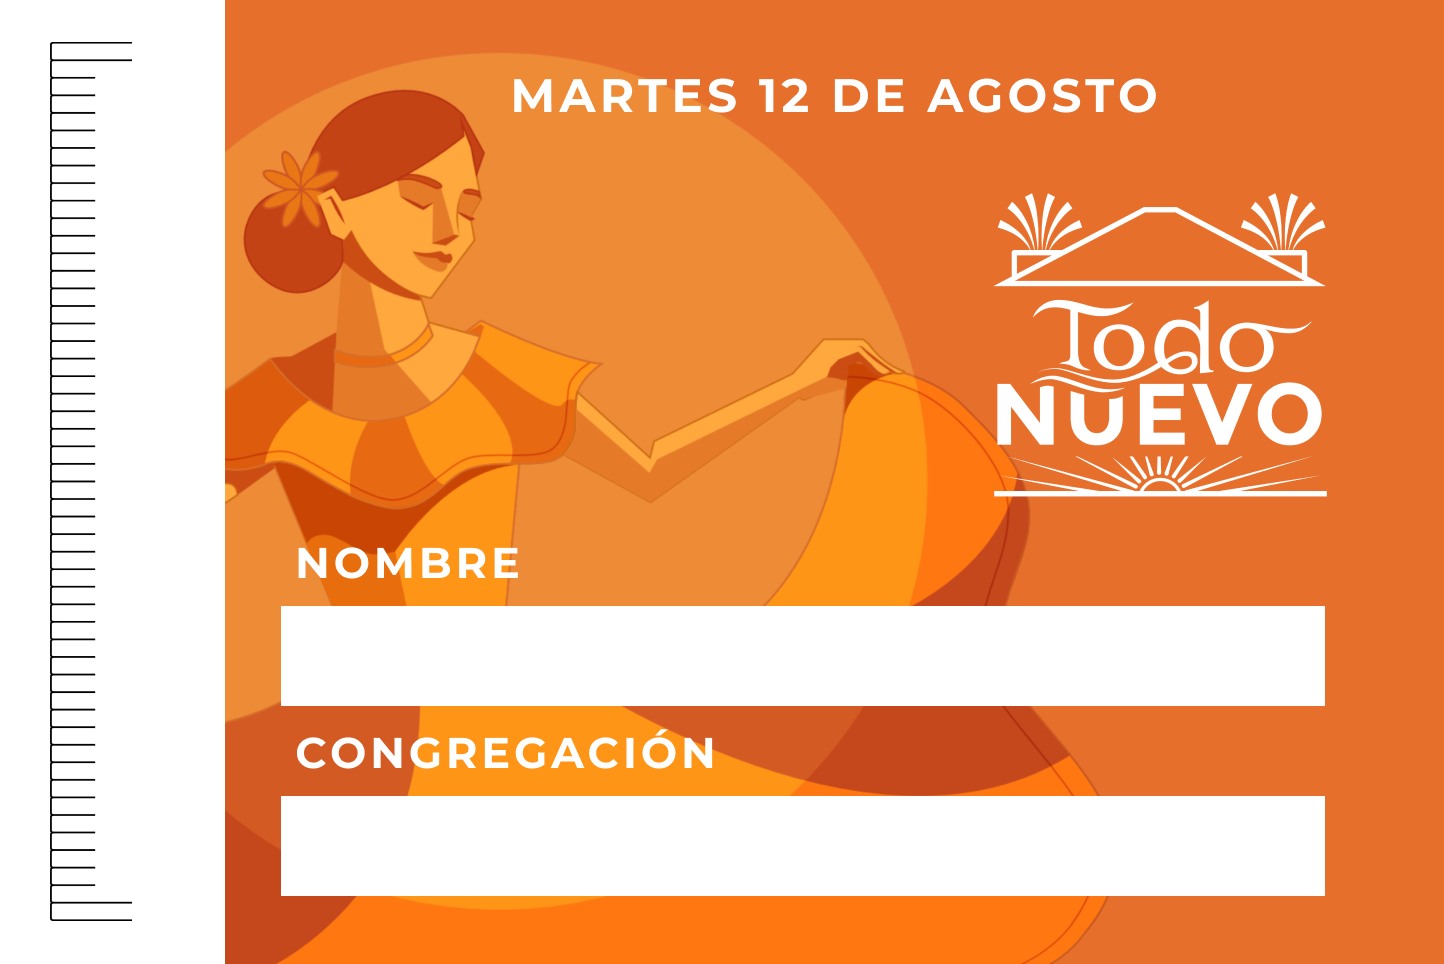
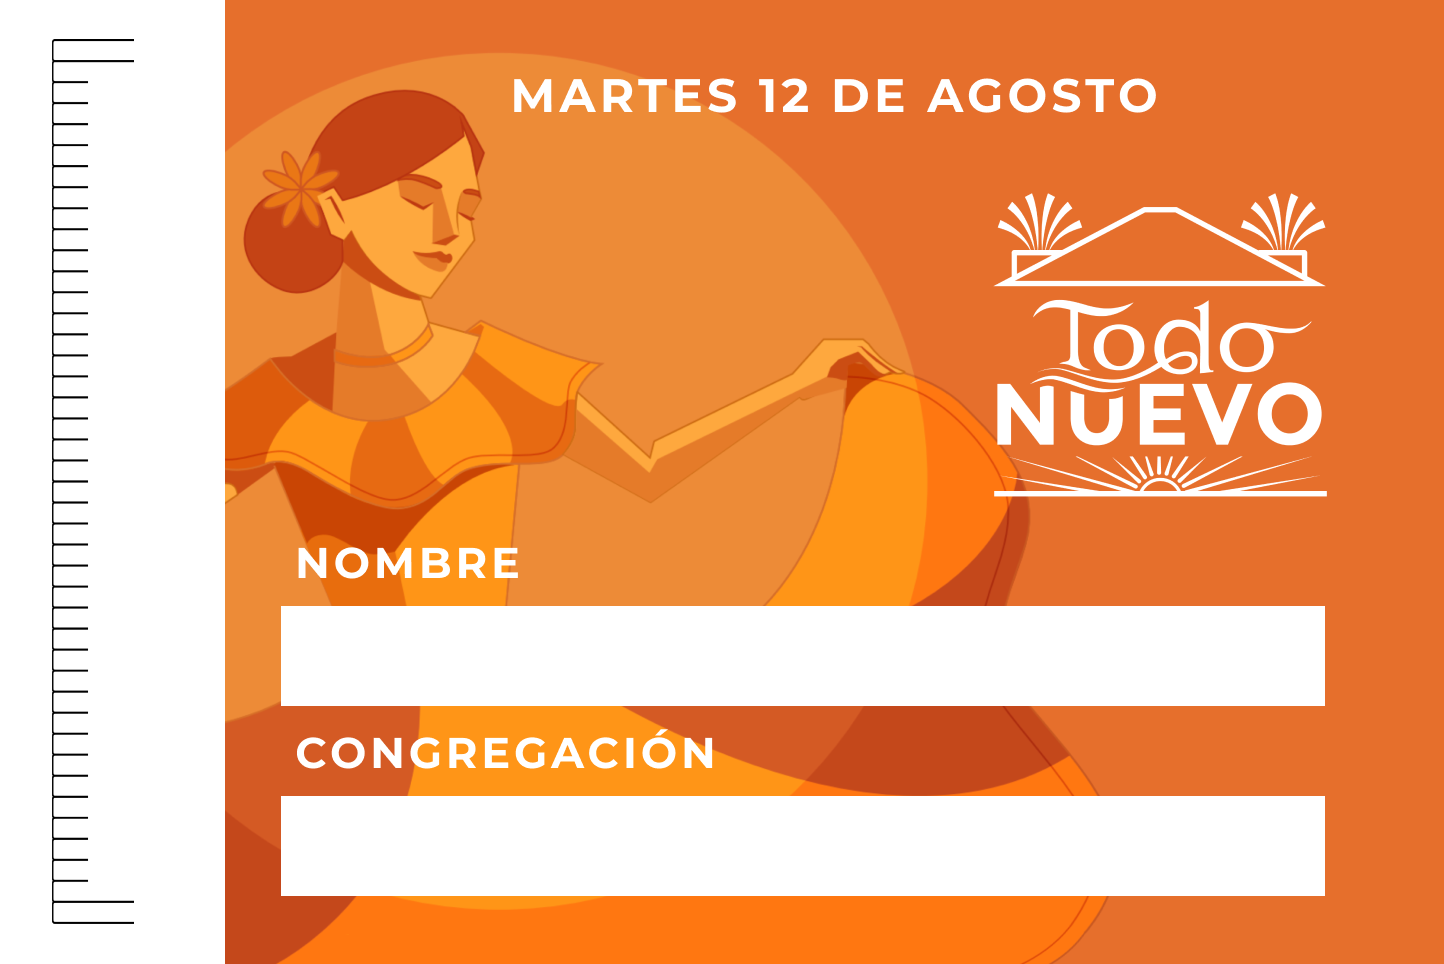
new ticket pngs and corrected barcode value location

Changed region(s): [[0.0312, 0.0311, 0.0935, 0.9647]]

diff --git a/utils/barcodeUtils.ts b/utils/barcodeUtils.ts
@@ -58,14 +58,14 @@ export const generateBarcodeDataURL = (value: string): string => {
 
   const text = value
   const textX = CANVAS_W - PAD
-  const textY = BAR_H + PAD * 2 + 2 // 25px higher
+  const textY = BAR_H + PAD * 2 - 1 // 25px higher
   const textW = ctx.measureText(text).width
 
   // white rectangle behind the label for contrast
   ctx.fillStyle = '#ffffff'
   ctx.fillRect(
     textX - textW - LABEL_PAD - 5,
-    textY - LABEL_PAD / 2 - 20, // 20px higher
+    textY - LABEL_PAD / 2 - 18, // 20px higher
     textW + LABEL_PAD * 2 + 10,
     FONT_SIZE + LABEL_PAD + 20,
   )
